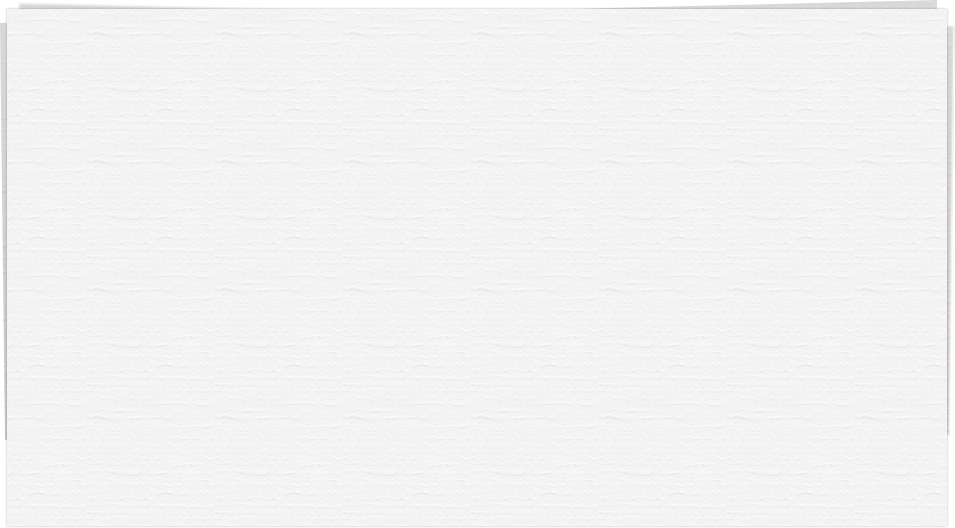
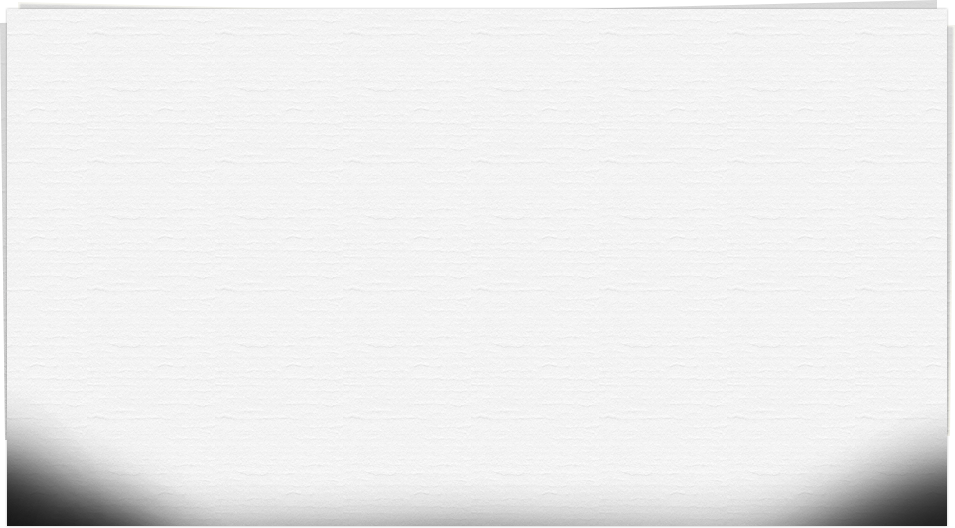
form

Changed region(s): [[0.0, 0.7879, 1.0, 1.0]]

diff --git a/css/style.css b/css/style.css
@@ -7,7 +7,10 @@
     src: url(fonts/pfagorasanspro-reg.ttf); 
    }
 body{
-    font: 100% pfagorasanspro, sans-serif;
+    font: 14px/100% pfagorasanspro, sans-serif;
+}
+.wrapper{
+    position:relative;
 }
 .container{
         background: url(../img/envelope-background.png) no-repeat, url(../img/wrap_bg.png) no-repeat;
@@ -20,11 +23,8 @@ body{
     height:0;
 }
 .cover-container{
-    background: url(../img/cover_bg.png) no-repeat;
     width:980px;
-    background-position: center center;
-    height:180px;
-    background-size: cover;
+    height:20px;
     position:absolute;
     bottom:0;
     left:50%;
@@ -33,29 +33,51 @@ body{
     text-align:center;
     
 }
+.cover-inner{
+    position:relative;
+}
+.cover-inner .left{
+    position:absolute;
+    top:-165px;
+    left:0;
+    z-index:3;
+}
+.cover-inner .right{
+    position:absolute;
+    top:-165px;
+    right:0;
+    z-index:3;
+}
+.cover-inner .bottom{
+    position:absolute;
+    top:-30px;
+    right:30px;
+    z-index:3;
+}
 .form-wrapper{
     padding:2% 0;
- background:url(../img/letter_bg.png) no-repeat;
- background-size: 100% 100%;
- position:absolute;
- bottom: -500px;
- width:954px;
- left:50%;
- margin-left:-477px;
- height:520px;
- z-index:1;
- background-position:center center;
+    background:url(../img/letter_bg.png) no-repeat;
+    background-size: 100% 100%;
+    position:absolute;
+    bottom: -500px;
+    width:954px;
+    left:50%;
+    margin-left:-477px;
+    height:520px;
+    z-index:1;
+    background-position:center center;
 }
 .next_cont{
     position:relative;
     background:url(../img/back.png) no-repeat, #FFF;
     height:500px;
     z-index:2;
+    background-size:cover;
 }
 .wrap-sector{
     z-index:2;
     position:relative;
-    height:800px;
+    min-height:700px;
 }
 .gor-menu{
    background:url(../img/nav_bg.png) repeat-x;
@@ -90,22 +112,26 @@ body{
     clear:both;
 }
 .col-wrap{
-    padding: 1% 3%;
+    padding: 17px 42px;
     
 }
-.form_col-left, .form_right-col{
+.form_col-left{
+    float:left;
+    width:34%;
+}
+.form_right-col{
     float:left;
     width:35%;
 }
 .image-container{
-    width:30%;
+    width:31%;
     float:left;
     position:relative;
 }
 .image-container img{
     position:absolute;
-    top: -70px;
-    left: -17px;
+    top: -80px;
+    left: -2px;
 }
 #hide-letter{
     text-transform:uppercase;
@@ -117,5 +143,89 @@ body{
      background-position: center right;
      text-decoration:none;
      width:116px;
-     margin-top: 150px;
+     position:absolute;
+     z-index:4;
+     top:-10px;
+     left:50%;
+     margin-left:-58px;
+     
+}
+#form-letter input[type='text'], #form-letter input[type='email'], #form-letter input[type='phone'], #form-letter input[type='pasword']{
+    border-left: 1px solid #cccccc;
+    border-right: 1px solid #cccccc;
+    border-bottom: 1px solid #cccccc;
+    border-top: 2px solid #cccccc;
+    border-radius: 6px; 
+    -webkit-border-radius: 6px; 
+    -moz-border-radius: 6px; 
+    -khtml-border-radius: 6px; 
+    background: #ffffff!important; 
+    outline: none; 
+    height: 40px; 
+    width: 207px; 
+    color: #545454;
+    font-size: 14px;
+    margin: 5px 0 0 0;
+    padding:0 0 0 20px;
+    font-weight:bold;
+}
+.wrap-radio{
+    margin:20px 0 10px 0;
+    font-weight:bold;
+    color:#6b4716;
+    font-size:16px;
+}
+.wrap-radio label{
+    color:#6d6d6d;
+    font-size:14px;
+    margin-left:15px;
+}
+.buttonSend {
+    background: #0f69a1;
+    background: -moz-linear-gradient(top, #0f69a1 0%, #114a70 93%, #052d42 100%);
+    background: -webkit-gradient(left top, left bottom, color-stop(0%, #0f69a1), color-stop(93%, #114a70), color-stop(100%, #052d42));
+    background: -webkit-linear-gradient(top, #0f69a1 0%, #114a70 93%, #052d42 100%);
+    background: -o-linear-gradient(top, #0f69a1 0%, #114a70 93%, #052d42 100%);
+    background: -ms-linear-gradient(top, #0f69a1 0%, #114a70 93%, #052d42 100%);
+    background: linear-gradient(to bottom, #0f69a1 0%, #114a70 93%, #052d42 100%);
+    border: 1px solid #0f547d;
+    border-radius: 5px;
+    box-shadow: 0 1px 2px rgba(0, 0, 0, 0.2);
+    box-shadow:inset 0px 1px 0px 0px #10a7db;
+    color: #FFF;
+    cursor: pointer;
+    display: block;
+    padding: 9px 110px;
+    text-align: center;
+    text-decoration: none;
+    text-shadow: 0 1px 1px rgba(0, 0, 0, 0.3);
+    margin:10px auto;
+    font-size:24px;
+    text-transform:uppercase;
+}
+.agree{
+    text-align:center;
+    color:#714b1a;
+    font-size:16px;
+    font-weight:bold;
+}
+.agree input[type='checkbox']{
+    vertical-align:middle;
+    margin:0 0 0 10px ;
+}
+input[type="radio"] {
+    display:none;
+}
+input[type="radio"] + span {
+    display:inline-block;
+    width:19px;
+    height:19px;
+    margin:-6px 4px 0 0;
+    vertical-align:middle;
+    background:url(../img/input.png) -25px top no-repeat;
+    cursor:pointer;
+}
+
+input[type="radio"]:checked + span {
+    background:url(../img/input.png) -2px top no-repeat;
 }

diff --git a/index.html b/index.html
@@ -12,10 +12,16 @@
     <div class="wrapper">
         <div class="container">
             <div class="cover-container">
-                <a href="/" id="hide-letter">close</a>
+                <div class="cover-inner">
+                    <img src="/img/left.png" alt="" class="left"/>
+                    <img src="/img/right.png" alt="" class="right"/>
+                    <img src="/img/bottom-cover.png" alt="" class="bottom"/>
+                    <a href="/" id="hide-letter">close</a>
+                </div>
+                </div>
             </div>
             <div class="form-wrapper">
-                <form>
+                <form id="form-letter">
                     <div class="col-wrap clearfix">
                         <div class="form_col-left">
                             <input type="text" name="first-name" placeholder='First name'/>
@@ -28,8 +34,8 @@
                             
                         </div>
                         <div class="form_right-col">
-                            <p>GENDER<label><input type="radio" checked="checked" name="gend" />Male</label><label><input type="radio" name="gend"  />Female</label></p>
-                              <div class="">  
+                            <p class="wrap-radio">GENDER:<label><input type="radio" checked="checked" name="gend" /><span></span>Male</label><label><input type="radio" name="gend"/><span></span>Female</label></p>
+                              <div class="list-input">  
                                 <input type="text" id="country" list="country_list" placeholder="COUNTRY">
                                 <datalist id="country_list">
                                   <option>Abkhazia</option>
@@ -41,6 +47,7 @@
                                   <option>China</option>
                                   <option>Finland</option>
                                   <option>France</option>
+                                  <option>Ukraine</option>
                                 </datalist>
                                   
                                 <input type="text" id="state" list="state_list" placeholder="STATE">
@@ -71,8 +78,8 @@
                             <img src="/img/maps_form.png" alt=""/>
                         </div>
                         </div>    
-                        <p>I agree with the Terms and Conditions<input type="checkbox" name="agree"/></p>
-                        <input type="submit" value="Submit"/>
+                        <p class="agree">I agree with the Terms and Conditions<input type="checkbox" name="agree"/></p>
+                        <input type="submit" value="send" class="buttonSend"/>
                     </div>
                      
                 </form>

diff --git a/js/custom.js b/js/custom.js
@@ -8,12 +8,19 @@
                     return false;
                 })
         function showLetter(){
+             if($(window).scrollTop() != '0'){
+                           $('body').animate({'scrollTop':'0'},400);; 
+                        };
             $('.container').css({'display':'block'}).animate({'height' : '650px'},2000); 
                     $('.form-wrapper').animate({'bottom' : '0px'}, 2500);
         };
         function hideLetter() {
+             if($(window).scrollTop() != '0'){
+                           $('body').animate({'scrollTop':'0'},400);; 
+                        };
                     $('.form-wrapper').animate({'bottom' : '-500px'}, 1500);
                         $('.container').animate({'height' : '0'},2000);
+                       
         };
         $(".nav-gorizontal a").on("click", function(){
             $(".nav-gorizontal a").removeClass("active");
